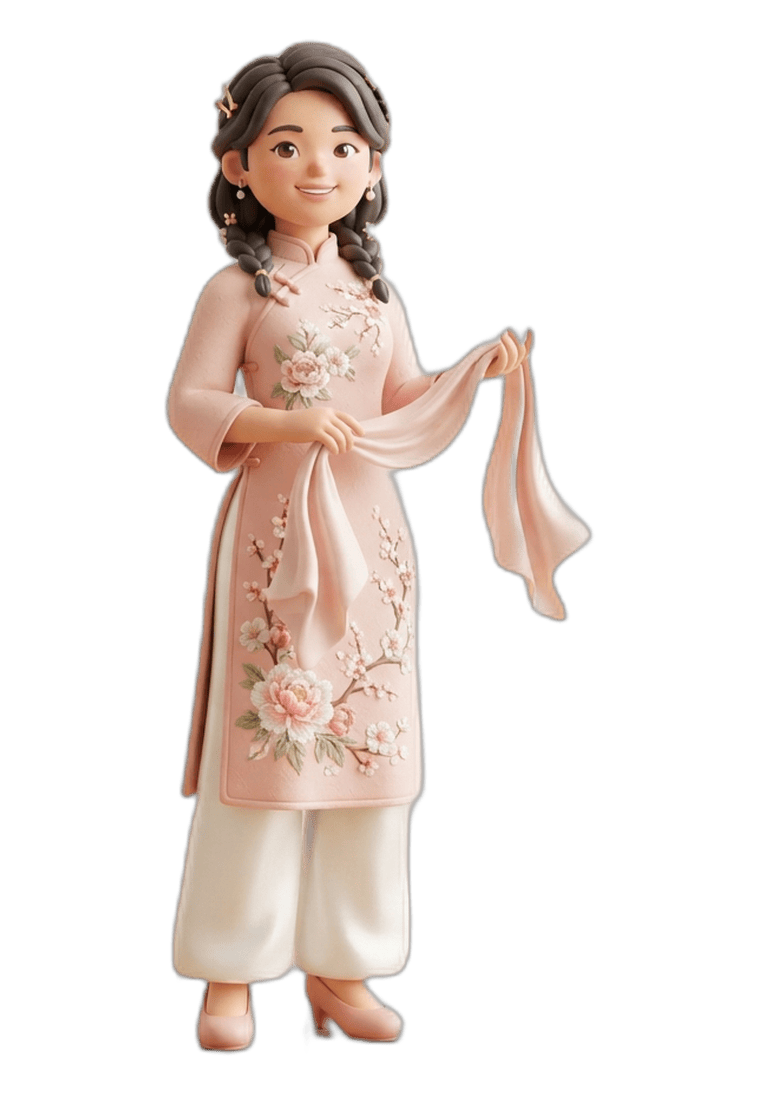
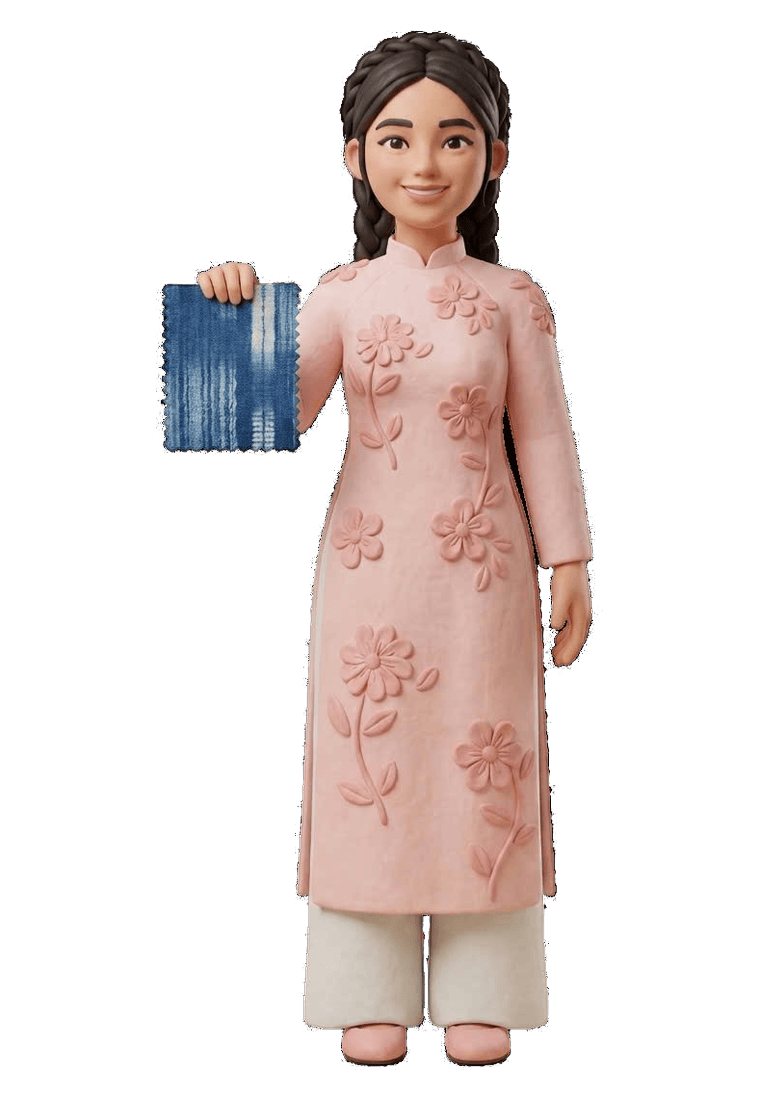
Thay tạo hình Lam Việt bản áo dài, hoàn tất bộ 15 nhân vật đồng khung
Tấm cuối cùng còn dùng ảnh cũ nay đã có bản chụp trên nền đen, chuẩn hóa
về cùng khung 760 × 1100 px như 14 tạo hình còn lại.

Ảnh này phải tách nền bằng cách khác: rembg nhận nhầm tấm vải chàm màu
xanh đậm trên tay là nền và cắt mất. Vì nền gốc là đen tuyệt đối
(RGB 0,0,0 ở toàn bộ viền) nên chuyển sang tách theo ngưỡng độ sáng có
dải chuyển mềm, bịt lỗ bên trong rồi gỡ nhân nền đen ở viền (F = P/α) –
giữ nguyên tấm vải chàm và không để lại quầng tối.

Cập nhật chú thích cho khớp tạo hình mới (mẫu vải chàm thay cho dải lụa)
kèm bản dịch tiếng Anh, và dựng lại bảng tạo hình nhân vật.

Đã rà soát cả 13 ảnh tách bằng rembg: chỉ Bà Sáu Lành bản áo dài giảm
diện tích đáng kể và đó là do bệ tròn dưới chân bị loại bỏ, đúng ý đồ.

Claude-Session: https://claude.ai/code/session_01H5UWzpPgbAtzMjFgfvSPV7

diff --git a/thu-vien.html b/thu-vien.html
@@ -200,7 +200,7 @@ const BP_CAST = [
   ['firms/phu-sa-foods-cut.png', 'Phù Sa Foods', 'Thực phẩm chế biến · khay hũ đặc sản miền Tây'],
   ['firms/phu-sa-foods-aodai-cut.png', 'Phù Sa Foods – Áo dài', 'Lễ phục · mâm món ăn giới thiệu tại hội chợ'],
   ['firms/lam-viet-cut.png', 'Lam Việt', 'Thời trang bền vững · vải chàm nhuộm tay và khung dệt'],
-  ['firms/lam-viet-aodai-cut.png', 'Lam Việt – Áo dài', 'Lễ phục · áo dài thêu hoa và dải lụa thủ công'],
+  ['firms/lam-viet-aodai-cut.png', 'Lam Việt – Áo dài', 'Lễ phục · áo dài thêu hoa, tay nâng mẫu vải chàm'],
   ['firms/mekong-digital-cut.png', 'Mekong Digital', 'Phần mềm quản trị · kênh số mạnh, biên lời cao'],
 ];
 document.getElementById('bp-cast-lib').innerHTML = BP_CAST.map(([f, n, s]) => `

diff --git a/js/error-log.js b/js/error-log.js
@@ -8,7 +8,7 @@
  * Tắt backend (enabled=false) là tắt luôn giám sát lỗi. */
 (function () {
   const QKEY = 'bizon-error-queue';
-  const APP_VER = 'bizon-v175'; // khớp CACHE trong sw.js – biết lỗi thuộc phiên bản nào
+  const APP_VER = 'bizon-v176'; // khớp CACHE trong sw.js – biết lỗi thuộc phiên bản nào
   const MAX_PER_LOAD = 5;       // chống bão lỗi lặp: tối đa 5 bản ghi mỗi lượt tải trang
   let sent = 0;
   const seen = new Set();

diff --git a/js/site-ui.js b/js/site-ui.js
@@ -1122,8 +1122,8 @@
 "Sustainable fashion · hand-dyed indigo cloth and loom"
 ],
 [
-"Lễ phục · áo dài thêu hoa và dải lụa thủ công",
-"Gala outfit · embroidered áo dài and handmade silk sash"
+"Lễ phục · áo dài thêu hoa, tay nâng mẫu vải chàm",
+"Gala outfit · embroidered áo dài, holding an indigo fabric swatch"
 ],
 [
 "Phần mềm quản trị · kênh số mạnh, biên lời cao",

diff --git a/sw.js b/sw.js
@@ -1,7 +1,7 @@
 /* BizOn Bật Nghiệp 2026 – Service Worker (offline app shell)
  * © 2026 Đỗ Thùy Hương & Phan Anh Tú. Bảo lưu mọi quyền. */
 
-const CACHE = 'bizon-v175';
+const CACHE = 'bizon-v176';
 const SHELL = [
   './',
   './index.html',
